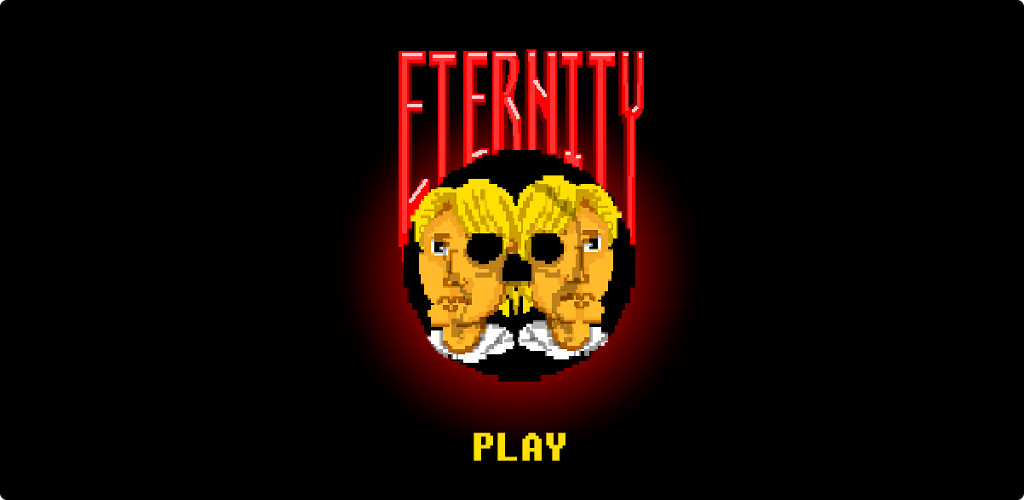
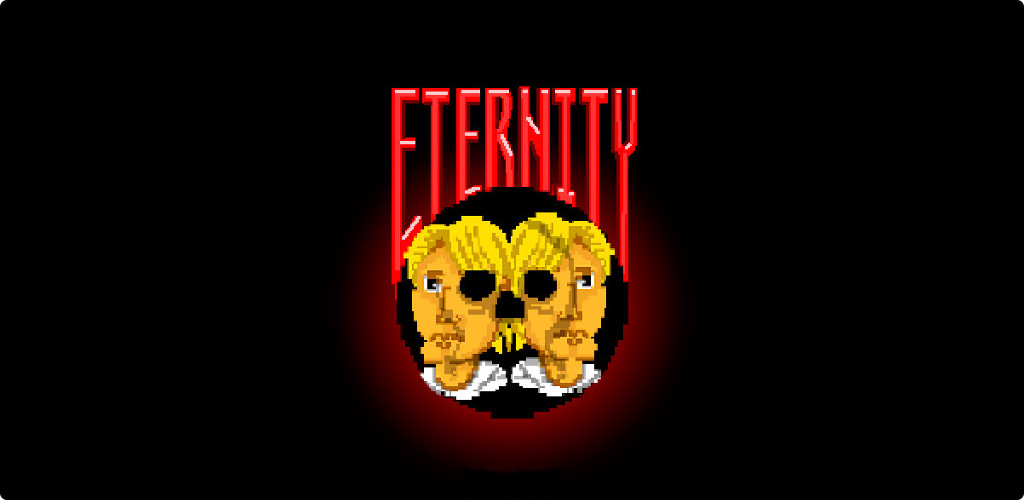
implement game jam project

Changed region(s): [[0.3438, 0.09, 0.6562, 0.96]]

diff --git a/projects/7rituals.html b/projects/7rituals.html
@@ -9,7 +9,7 @@
   <meta name="description" content="">
   <meta name="author" content="">
 
-  <title>Noé Fernández - Projects</title>
+  <title>Noé Fernández - Projects - Global Game Jam: Eternity</title>
 
   <!-- Bootstrap Core CSS -->
   <link href="../vendor/bootstrap/css/bootstrap.min.css" rel="stylesheet">
@@ -138,9 +138,8 @@
           <div class="row">
               <div class="col-lg-8 col-lg-offset-2 col-md-10 col-md-offset-1">
                   <div class="post-heading">
-                      <h1>Man must explore, and this is exploration at its greatest</h1>
-                      <h2 class="subheading">Problems look mighty small from 150 miles up</h2>
-                      <span class="meta">Posted by <a href="#">Start Bootstrap</a> on August 24, 2014</span>
+                      <h1>Global Game Jam: Eternity</h1>
+                      <h2 class="subheading">Innovation. Collaboration. Experimentation.</h2>
                   </div>
               </div>
           </div>
@@ -152,38 +151,211 @@
       <div class="container">
           <div class="row">
               <div class="col-lg-8 col-lg-offset-2 col-md-10 col-md-offset-1">
-                  <p>Never in all their history have men been able truly to conceive of the world as one: a single sphere, a globe, having the qualities of a globe, a round earth in which all the directions eventually meet, in which there is no center because every point, or none, is center — an equal earth which all men occupy as equals. The airman's earth, if free men make it, will be truly round: a globe in practice, not in theory.</p>
 
-                  <p>Science cuts two ways, of course; its products can be used for both good and evil. But there's no turning back from science. The early warnings about technological dangers also come from science.</p>
+                  <h2 class="section-heading">What is the Global Game Jam?</h2>
 
-                  <p>What was most significant about the lunar voyage was not that man set foot on the Moon but that they set eye on the earth.</p>
+                  <p>
+                    The Global Game Jam® (GGJ) is the world's largest game jam event (game creation) taking place around the world at physical locations.
+                    Think of it as a hackathon focused on game development. It is the growth of an idea that in today’s heavily connected world,
+                    we could come together, be creative, share experiences and express ourselves in a multitude of ways using video games - it is very universal.
+                    The weekend stirs a global creative buzz in games, while at the same time exploring the process of development, be it programming,
+                    iterative design, narrative exploration or artistic expression. It is all condensed into a 48 hour development cycle.
+                    The GGJ encourages people with all kinds of backgrounds to participate and contribute to this global spread of game development and creativity.
+                  </p>
 
-                  <p>A Chinese tale tells of some men sent to harm a young girl who, upon seeing her beauty, become her protectors rather than her violators. That's how I felt seeing the Earth for the first time. I could not help but love and cherish her.</p>
+                  <p>
+                    The structure of a jam is usually that everyone gathers on Friday late afternoon, watches a short video keynote with advice from leading
+                    game developers, and then a secret theme is announced. All sites worldwide are then challenged to make games based on that same theme,
+                    with games to be completed by Sunday afternoon. The jam is known for helping foster new friendships, increase confidence and opportunities
+                    within the community. The jam is always an intellectual challenge. People are invited to explore new technology tools, trying on new
+                    roles in development and testing their skills to do something that requires them to design, develop create, test and make a new game
+                    in the time span of 48 hours. The GGJ stimulates collaboration and is not a competition.
+                    <a href="https://globalgamejam.org/about" target="_blank">[1]</a>
+                  </p>
 
-                  <p>For those who have seen the Earth from space, and for the hundreds and perhaps thousands more who will, the experience most certainly changes your perspective. The things that we share in our world are far more valuable than those which divide us.</p>
+                  <p>
+                    The local jam site where a friend graphic designer and I went was Global Game Jam On (Spanish wordplay). Despite being away from our home,
+                    we chose this venue because they offered a lot of facilities (large desktops to work, free food, expert support, etc) and the participants
+                    were almost all the time there working so it was an optimal work environment. We will definitely repeat with them if we can as the
+                    experience was great.
+                  </p>
 
-                  <h2 class="section-heading">The Final Frontier</h2>
+                  <img class="img-responsive" src="img/7rituals/game-jamon.jpg" alt="">
+                  <span class="caption text-muted">Photo of all the participants of the Game Jam On</span>
 
-                  <p>There can be no thought of finishing for ‘aiming for the stars.’ Both figuratively and literally, it is a task to occupy the generations. And no matter how much progress one makes, there is always the thrill of just beginning.</p>
+                  <p>
+                    The secret theme of this year was rituals. The word 'Ritual' offers a lot of possibilities, people were very creative and presented very
+                    good games. I will focus here on ours.
+                  </p>
 
-                  <p>There can be no thought of finishing for ‘aiming for the stars.’ Both figuratively and literally, it is a task to occupy the generations. And no matter how much progress one makes, there is always the thrill of just beginning.</p>
+                  <h2 class="section-heading">My team</h2>
 
-                  <blockquote>The dreams of yesterday are the hopes of today and the reality of tomorrow. Science has not yet mastered prophecy. We predict too much for the next year and yet far too little for the next ten.</blockquote>
+                  <p>
+                    My team initially was formed by my friend and me, taking advantage of it was our first jam and we worked well together, and then three
+                    more unknown people were added. We were lucky to find such good teammates. One was a game designer, another was a programmer with little
+                    experience and another was a very good pianist. Except for the musician who went to work remotely to his studio, I was almost the whole
+                    weekend with the other three workmates.
+                  </p>
 
-                  <p>Spaceflights cannot be stopped. This is not the work of any one man or even a group of men. It is a historical process which mankind is carrying out in accordance with the natural laws of human development.</p>
+                  <center><img class="img-responsive" src="img/7rituals/team.jpg" alt=""></center>
+                  <span class="caption text-muted">Team photo</span>
 
-                  <h2 class="section-heading">Reaching for the Stars</h2>
+                  <p>
+                    It is a great experience to meet, make friends and work with people totally unknown in such a short time. We were a great team and
+                    although we could not win the challenge we had a great time together and that is what is important.
+                  </p>
 
-                  <p>As we got further and further away, it [the Earth] diminished in size. Finally it shrank to the size of a marble, the most beautiful you can imagine. That beautiful, warm, living object looked so fragile, so delicate, that if you touched it with a finger it would crumble and fall apart. Seeing this has to change a man.</p>
+                  <h2 class="section-heading">The idea</h2>
 
-                  <img class="img-responsive" src="img/project-template/project-sample.jpg" alt="">
-                  <span class="caption text-muted">To go places and do things that have never been done before – that’s what living is all about.</span>
+                  <p>
+                    All of us participated creating the original idea for the game. Each one brought all their experience and their opinion were taken
+                    into account. After a few hours of brainstorming and debate, we have the idea: Eternity.
+                  </p>
 
-                  <p>Space, the final frontier. These are the voyages of the Starship Enterprise. Its five-year mission: to explore strange new worlds, to seek out new life and new civilizations, to boldly go where no man has gone before.</p>
+                  <p>
+                    Eternity is a click and point game of aesthetic pixel art. The protagonist of the game is a successful millionaire and the main
+                    stage is his luxury house. The action happens through the interaction with the stage, solving puzzles that will change the stage
+                    and in the own personage. Narrative is told through the dialogues with other characters and descriptions of objects.
+                  </p>
 
-                  <p>As I stand out here in the wonders of the unknown at Hadley, I sort of realize there’s a fundamental truth to our nature, Man must explore, and this is exploration at its greatest.</p>
+                  <p>
+                    This character must perform a kind of seven rituals that will bring him to an unexpected end. These rituals are linked (warning spoiler)
+                    with <a href="https://en.wikipedia.org/wiki/Seven_deadly_sins" target="_blank">the seven deadly sins</a>.
+                    These will cause the stage (his luxury house) to deteriorate and different events happen in each of the phases.
+                  </p>
 
-                  <p>Placeholder text by <a href="http://spaceipsum.com/">Space Ipsum</a>. Photographs by <a href="https://www.flickr.com/photos/nasacommons/">NASA on The Commons</a>.</p>
+                  <img class="img-responsive" src="img/7rituals/room.png" alt="">
+                  <span class="caption text-muted">The luxurious house being deteriorated</span>
+
+                  <p>
+                    The connection between rituals and capital sins is very important. For example, to complete the phase of gluttony sin you have to
+                    call the pizza maker by phone and eat pizza repeatedly until death.
+                  </p>
+
+                  <p>
+                    The end of the game, which is supposed to be the most difficult puzzle is related to the sin of sloth. The player should sit
+                    in a chair and wait slowly until the protagonist dies (the character grows old). This seems easier than it really is since the
+                    room is full of objects and characters with which to perform actions and the option to sit and wait a while until you see some
+                    graphic change in the character is not something intuitive. However, if the player has understood that the rituals are linked
+                    to the deadly sins and have identified them, he knows that the sin that is missing is that of sloth.
+                  </p>
+
+                  <img class="img-responsive" src="img/7rituals/death.png" alt="">
+                  <span class="caption text-muted">Final death</span>
+
+                  <h2 class="section-heading">Tasks</h2>
+
+                  <p>
+                    As we had a short time to work on the concept, it was necessary to define the tasks well and to be able to work all efficiently
+                    in parallel. I highlight the following that we made among all:
+                  </p>
+
+                  <ul>
+                    <li>
+                      Define a narrative format. So that on the one hand I can work on the parser of that format and the panels of the dialogues
+                      and on the other hand, the game designer can write the dialogues and information of the objects.
+                    </li>
+                    <li>
+                      Define the different types of interactions and possible events. So that on the one hand I can implement these interactions
+                      on the stage and on the other hand, the game designer can define well the puzzles based on them.
+                    </li>
+                    <li>
+                      Detail the aesthetics of each stage with words to be able to produce musical pieces for each one and eases the work of creating art.
+                    </li>
+                  </ul>
+
+                  <p>
+                    My occupations in the team were of a technical leader since I was the one with the most experience (my programmer workmate had
+                    never worked with Unity and C#). I had to elaborate the list of technical tasks to implement. I defined to implement the following:
+                  </p>
+
+                  <ul>
+                    <li>Interactive objects</li>
+                    <li>Animated objects</li>
+                    <li>Characters</li>
+                    <li>Interactions and action resolvers</li>
+                    <li>Special behaviors</li>
+                    <li>Narrative parser and provider</li>
+                  </ul>
+
+                  <h3>Implementation</h3>
+
+                  <p>
+                    The development of the game has been done integrally in Unity and the programming language chosen is C# since it is the most mature,
+                    documented and the most experience I have.
+                  </p>
+
+                  <p>
+                    It was decided that the default platform was the web, powered by WebGL. Although Unity offers a lot of facilities to adapt it to other
+                    platforms and in our roadmap was an adaptation to mobile.
+                  </p>
+
+                  <p>
+                    As we know C# is an object-oriented language and it is very interesting to take advantage of the features offered by such a language
+                    by applying design patterns, abstraction and avoiding duplication of code.
+                  </p>
+
+                  <p>Thus classes and interfaces were defined, the most important being:</p>
+
+                  <ul>
+                    <li>
+                      <i>Character</i>, this class must be implemented by the animated characters and objects. It has methods like <i>MoveIfNeeded</i>,
+                      <i>RotateIfNeeded</i>, <i>SmoothMovement</i>.
+                    </li>
+                    <li>
+                      <i>IActionResolver</i>, this interface must be implemented by the scripts that resolve the actions that are performed in the game.
+                      It has a method called <i>TriggerAction</i> with three parameters, one of them a callback that is invoked when the action is finished.
+                      An example implementation of this interface is <i>DirkSuicideAction</i>, this action loads the scene by reviving the protagonist
+                      differently depending on the parameters of the action.
+                    </li>
+                    <li>
+                      <i>SceneState</i>, is an abstract class that has to control the evolution of a level. It has methods like <i>GetProgress</i> and <i>SaveScene</i>.
+                      It is used for example to fill a ritual bar that appears in the interface (it is a very important clue for the user to solve the puzzles)
+                      and to control which dialogs and interactions are available during the level.
+                    </li>
+                    <li>
+                      <i>NarrativeParser</i>, is a class that parses files with the format defined for the narrative at load time of the game.
+                      It is based on XML so it is not very difficult to implement. Once the narrative is in memory, it has methods to access it
+                      and thus read the dialogues. In this way, it is relatively easy to translate the game into other languages.
+                    </li>
+                    <li>
+                      <i>Interactuable</i>, this abstract class contains the common logic of interactive objects. Its two most important implementations
+                      are abstract classes called <i>Item</i> and <i>ActionableItem</i>. One only provides information to the player and the other also performs an action.
+                      To access the implementation of the type of <i>Interactualble</i> is used
+                      <a href="https://en.wikipedia.org/wiki/Visitor_pattern" target="_blank">the visitor pattern</a>.
+                      Therefore, there is an interface called <i>InteractuableVisitor</i> with Visit methods.
+                    </li>
+                  </ul>
+
+                  <h2 class="section-heading">Result</h2>
+
+                  <p>
+                    I have to say that unfortunately we could not complete the seven rituals on time. We were newbies, it was our first game jam and
+                    we did not calculate the time well. We could only complete three rituals (the first two and the last one because we want that the
+                    game has an end). The game was playable but did not have enough contents for the player to understand the dynamics of the rituals
+                    and the plot. Our mates from the Game Jam On gave us very good feedback and this experience helped us learn a lot. Far from being
+                    discouraged, this stimulates us to come back and get it in another edition.
+                  </p>
+
+                  <img class="img-responsive" src="img/7rituals/logo.png" alt="">
+                  <span class="caption text-muted">Game menu</span>
+
+                  <h2 class="section-heading">My experience</h2>
+
+                  <p>
+                    The experience was very good. I had never participated in a game jam, this was the first and everything went very well.
+                    I had some Unity knowledge of having done some personal project previously and had no previous experience with click and point games.
+                  </p>
+
+                  <p>
+                    The fact of carrying out a project of this type in such a short time, with people totally unknown and in multidisciplinary teams,
+                    requires having the knowledge very clear. It is necessary to make decisions and risk.
+                  </p>
+
+                  <p>
+                    I will definitely repeat as soon as I can since I like hackathons and this one was very entertaining.
+                  </p>
+
               </div>
           </div>
       </div>
